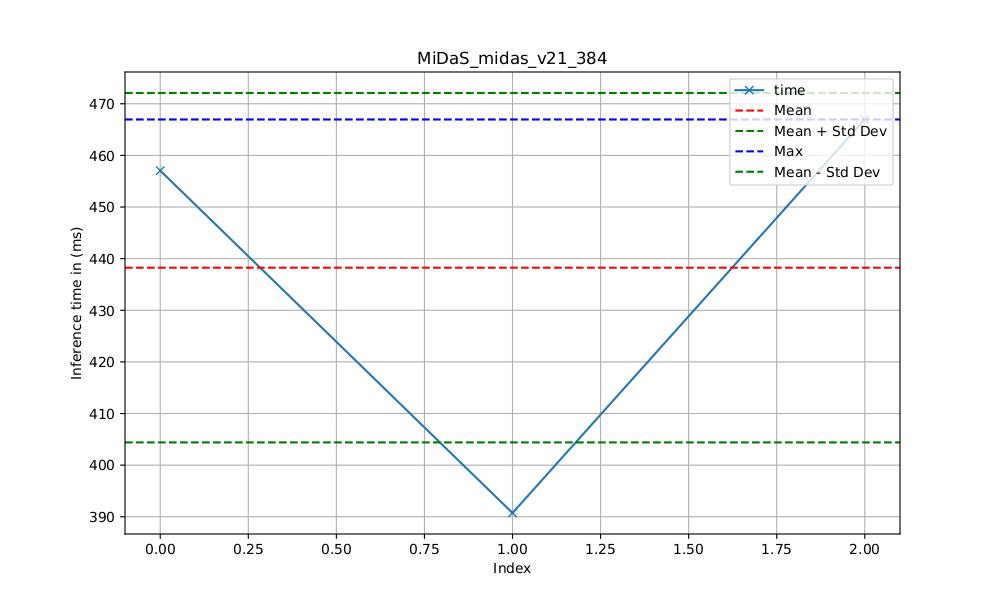
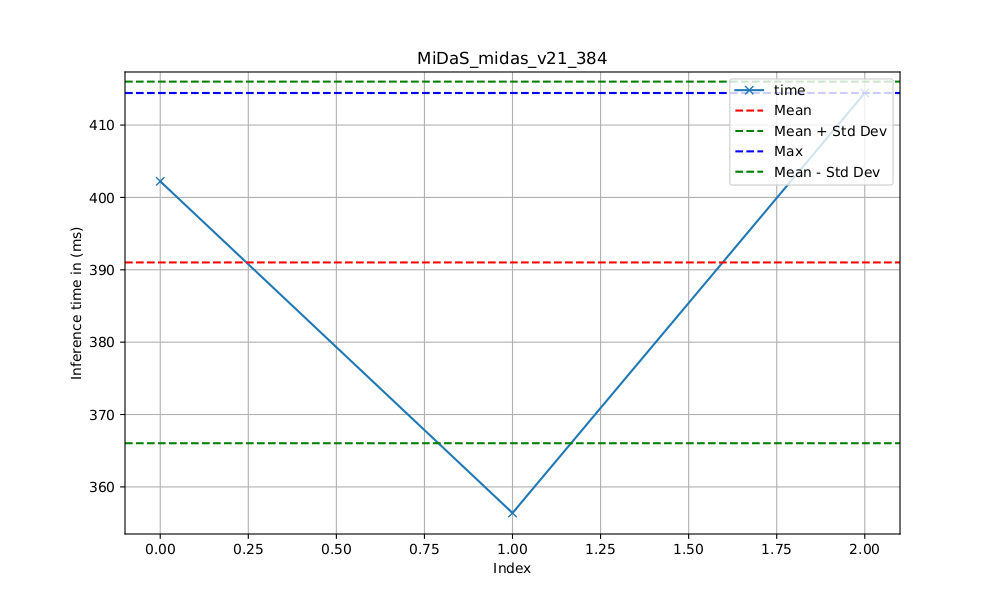
upload all

diff --git a/processing.py b/processing.py
@@ -46,7 +46,6 @@ class PerformanceTimer:
             if self.first_calibration_run:
                 print("Calibrate PerformanceTimer--")
                 process_time = (time.time_ns() - self.current_tstamp) / self.division_factor
-                print(process_time)
                 if process_time > 1000:
                     self.division_factor = 1e9
                     process_time = process_time / 1e3
@@ -110,6 +109,7 @@ class Processor:
             - estimator_type (default=None): flag for which estimator is used
         """
         self.ih = ih
+        self.counter = 0
         self.ih_input_type = self.ih.get_input_type()
         print("Input type: ",ih.get_input_type())
         # flags for setting if segmentator or depth estimator should be used
@@ -277,16 +277,22 @@ class Processor:
         Args:
             - depth: numpy depth map
         """
-        file_path = "mean_depth_per_object.csv"
+        file_path = os.path.join(self.ih.get_output_path_seg(), str(self.counter) + "_mean_depth_per_object.csv")
         mean_depths = {}
         f = open(file_path, "w", newline="")
-        writer = csv.writer(f, delimiter=" ")
+        writer = csv.writer(f)
+
         for key, value in self.segmentation_masks.items():
             resized_mask = cv2.resize(value, (depth.shape[1], depth.shape[0]), interpolation=cv2.INTER_NEAREST)
             self.depth_masks[key] = resized_mask*depth
-            mean_depths[key] = (np.sum(self.depth_masks[key])/ np.sum(resized_mask))
-            writer.writerow("hello")
+            if np.sum(resized_mask) > 0:
+                mean_depths[key] = (np.sum(self.depth_masks[key])/ np.sum(resized_mask))
+        
+        sorted_mean_depths = dict(sorted(mean_depths.items(), key=lambda item: item[1]))
+        for key,mean_depth in sorted_mean_depths.items():
+            writer.writerow([self.segmentator.class_labels[key], mean_depth])
         f.close()
+        self.counter+=1
         return (self.depth_masks, mean_depths)
     
     def get_label_location(self, height, width):

diff --git a/run.py b/run.py
@@ -19,8 +19,7 @@ parser = argparse.ArgumentParser()
 parser.add_argument("-i","--input", help="Path to image, input directory or video file", required=False, default="input/images/")
 parser.add_argument("-o", "--output", help="Path to the output folder", required=False, default="output/images")
 parser.add_argument("-et", "--estimator_type", help="Estimator model for the depth estimation", choices=["Mono2","MiDaS", "ZoeDepth", "DPT", None], required=False, default="Mono2")
-parser.add_argument("-emt", "--estimator_model_type", help="which kind of model type should be used", choices=["small", "medium", "large", None], required=False, default="medium")
-parser.add_argument("-s", "--seg", help="Also segment the image", type=bool, required=False)
+parser.add_argument("-s", "--seg", help="Also segment the image", required=False, action="store_true")
 
 # parse the arguments
 args = parser.parse_args()
@@ -41,7 +40,7 @@ if args.estimator_type == "Mono2":
     depth_estimator = MonoDepth2(device=device, model_name=model_type)
 
 elif args.estimator_type == "MiDaS":
-    model_type = midas_model_list[2]
+    model_type = midas_model_list[1]
     depth_estimator = MiDaS(device=device, model_type=model_type, optimize=False)
 
 elif args.estimator_type == "DPT":
@@ -49,7 +48,7 @@ elif args.estimator_type == "DPT":
     depth_estimator = DPT(device=device, model_type=model_type)
 
 elif args.estimator_type == "ZoeDepth":
-    model_type = "ZoeD_K"
+    model_type = "ZoeD_NK"
     depth_estimator = ZoeDepth(device=device, model_type=model_type)
 
 print("Using:", args.estimator_type + "_" + model_type)

diff --git a/readme.md b/readme.md
@@ -1,19 +1,15 @@
 ## Segmentation-guided Monocular Depth Estimation with Metric Depth for ressource-constraint devices
 
 This repository contains code to compute depth from a single image, a directory of images and a single video. It accompanies several depth models developed by the following papers:
- [Towards Robust Monocular Depth Estimation: Mixing Datasets for Zero-shot Cross-dataset Transfer](https://arxiv.org/abs/1907.01341v3)
- [Vision Transformers for Dense Prediction](hello.html)
 
->Towards Robust Monocular Depth Estimation: Mixing Datasets for Zero-shot Cross-dataset Transfer  
-René Ranftl, Katrin Lasinger, David Hafner, Konrad Schindler, Vladlen Koltun
+[Towards Robust Monocular Depth Estimation: Mixing Datasets for Zero-shot Cross-dataset Transfer](https://arxiv.org/abs/1907.01341v3)
 
+[Vision Transformers for Dense Prediction](hello.html)
 
-and our [preprint](https://arxiv.org/abs/2103.13413):
-
-> Vision Transformers for Dense Prediction  
-> René Ranftl, Alexey Bochkovskiy, Vladlen Koltun
+[Monodepth2](https://)
 
 For the latest release MiDaS 3.1, a [technical report](https://arxiv.org/pdf/2307.14460.pdf) and [video](https://www.youtube.com/watch?v=UjaeNNFf9sE&t=3s) are available.
+
 
 MiDaS was trained on up to 12 datasets (ReDWeb, DIML, Movies, MegaDepth, WSVD, TartanAir, HRWSI, ApolloScape, BlendedMVS, IRS, KITTI, NYU Depth V2) with
 multi-objective optimization. 
@@ -24,7 +20,10 @@ The figure below shows an overview of the different MiDaS models; the bubble siz
 
 ### Setup 
 
-1) Pick one or more models and download the corresponding weights to the `weights` folder:
+1) Pick one of the estimator types and download the weights
+  - Monodepth2: automatically downloads the weights in the first run
+  - MiDaS and DPT: download the model from their repositories and store them inside the `weights` folder in the correct directory (e.g. ``Depth_Estimation/MiDaS/weights`)
+  - ZoeDepth: works with `torch.hub` and also automatically downloads the weights.
 
 #### MiDaS 
 - For highest quality: [dpt_beit_large_512](https://github.com/isl-org/MiDaS/releases/download/v3_1/dpt_beit_large_512.pt)
